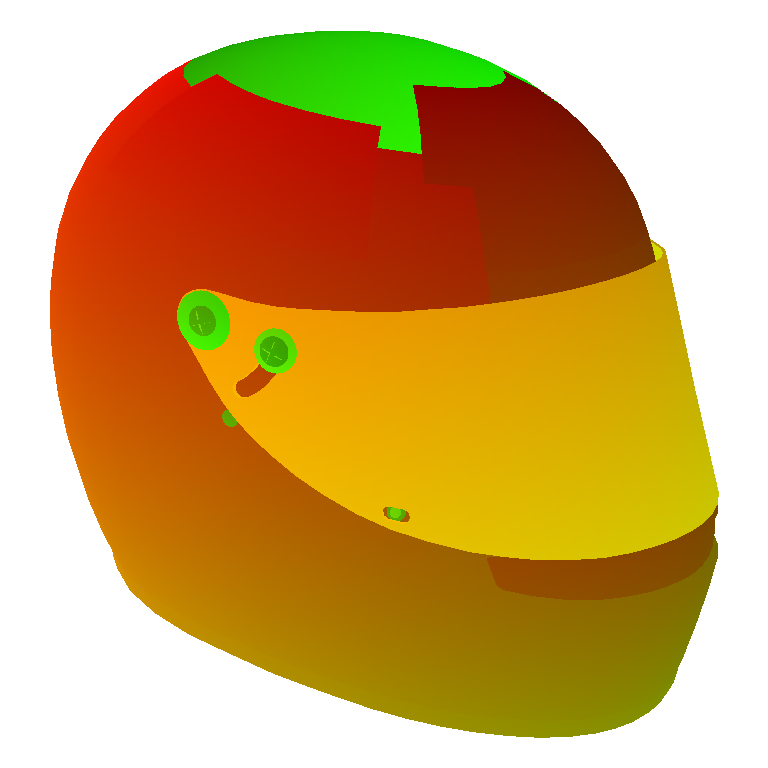
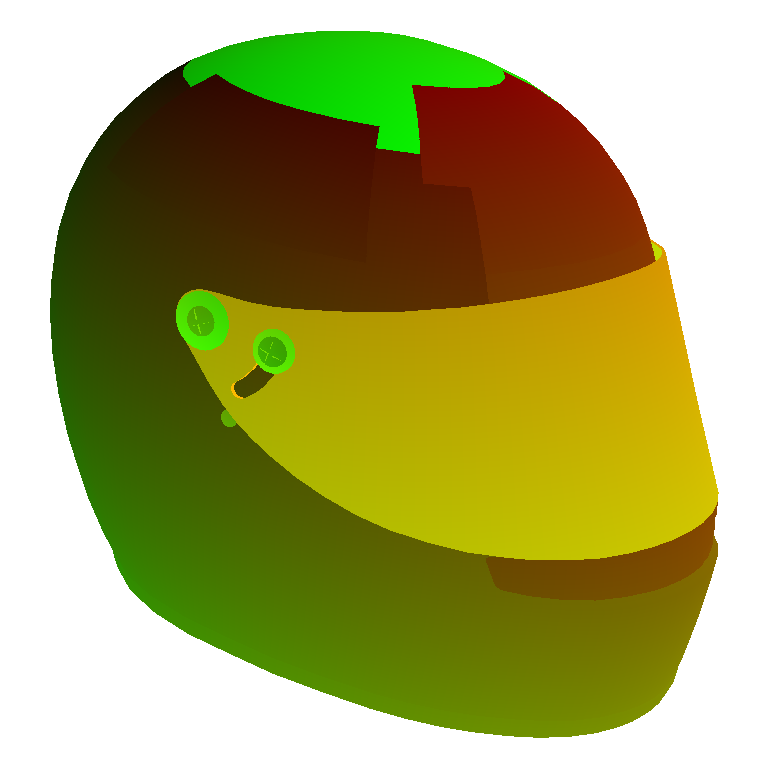
- fixed an issue were the helmet looked "flipped" in previews - fixed the number on f ultimate gen 1 kit where the number wasn't centered and the side of the nose were always carbon - fixed the "car class not in catalog" when f ultimate gen 1 cars are supposed to be selected in the automatic race se

diff --git a/Ams2ChEd.Business.AMS2/Helpers/HelmetPreviewComposer.cs b/Ams2ChEd.Business.AMS2/Helpers/HelmetPreviewComposer.cs
@@ -33,6 +33,8 @@ namespace Ams2ChEd.Business.AMS2.Helpers
             public int Size { get; init; }
             public Rgba64[] Uv { get; init; }
             public Rgba32[] Shading { get; init; }
+            /// <summary>When the maps were baked, so a rebake can retire previews made with the old ones.</summary>
+            public string Stamp { get; init; }
         }
 
         private static readonly ConcurrentDictionary<string, HelmetMaps> Maps = new(StringComparer.OrdinalIgnoreCase);
@@ -47,7 +49,7 @@ namespace Ams2ChEd.Business.AMS2.Helpers
                 return null;
             using var uvImage = Image.Load<Rgba64>(uvPath);
             using var shadingImage = Image.Load<Rgba32>(shadingPath);
-            var maps = new HelmetMaps { Size = uvImage.Width, Uv = new Rgba64[uvImage.Width * uvImage.Height], Shading = new Rgba32[shadingImage.Width * shadingImage.Height] };
+            var maps = new HelmetMaps { Size = uvImage.Width, Stamp = File.GetLastWriteTimeUtc(uvPath).Ticks.ToString(), Uv = new Rgba64[uvImage.Width * uvImage.Height], Shading = new Rgba32[shadingImage.Width * shadingImage.Height] };
             uvImage.CopyPixelDataTo(maps.Uv);
             shadingImage.CopyPixelDataTo(maps.Shading);
             return Maps.GetOrAdd(folder, maps);

diff --git a/Ams2ChEd.Business.AMS2/Services/Ams2LiveryService.cs b/Ams2ChEd.Business.AMS2/Services/Ams2LiveryService.cs
@@ -1356,7 +1356,7 @@ namespace Ams2ChEd.Business.AMS2.Services
                 using var stream = File.OpenRead(path);
                 return Convert.ToHexString(md5.ComputeHash(stream));
             }
-            string key = string.Join("|", Hash(helmetPath), visorPath == null ? "no visor" : Hash(visorPath), carNumber, background, sheetKey);
+            string key = string.Join("|", Hash(helmetPath), visorPath == null ? "no visor" : Hash(visorPath), carNumber, background, sheetKey, maps.Stamp);
             if (!GenericLiveryComposer.IsCached(outputPath, key))
             {
                 using var texture = DdsTextureComposer.LoadImage(helmetPath);

diff --git a/Ams2ChEd.Business.AMS2/Helpers/Ams2ReliabilityRanges.cs b/Ams2ChEd.Business.AMS2/Helpers/Ams2ReliabilityRanges.cs
@@ -47,6 +47,7 @@ namespace Ams2ChEd.Business.AMS2.Helpers
             ["Group C"] = High,
 
             ["F-Reiza"] = VeryHigh,
+            ["F-Ultimate"] = VeryHigh,
             ["F-Ultimate_Gen1"] = VeryHigh,
             ["F-Ultimate_Gen2"] = VeryHigh,
         };
